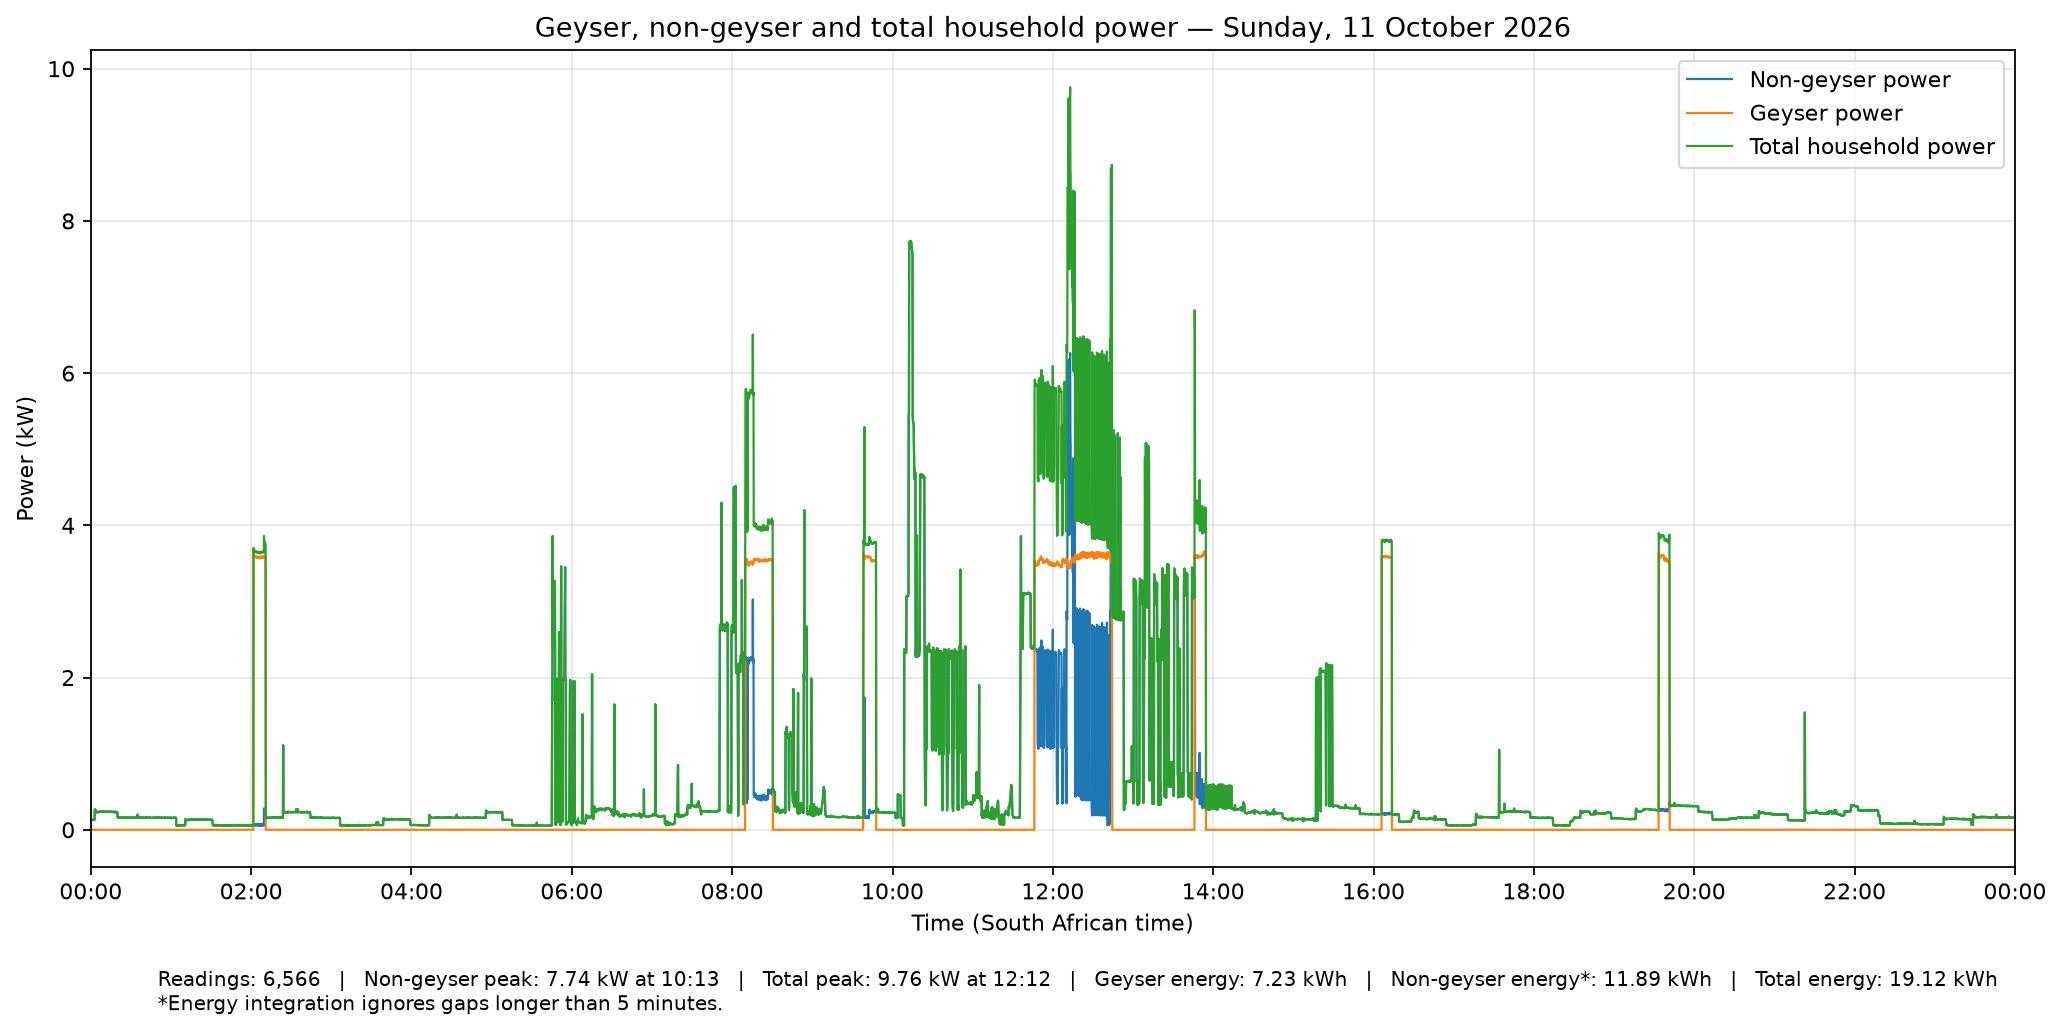
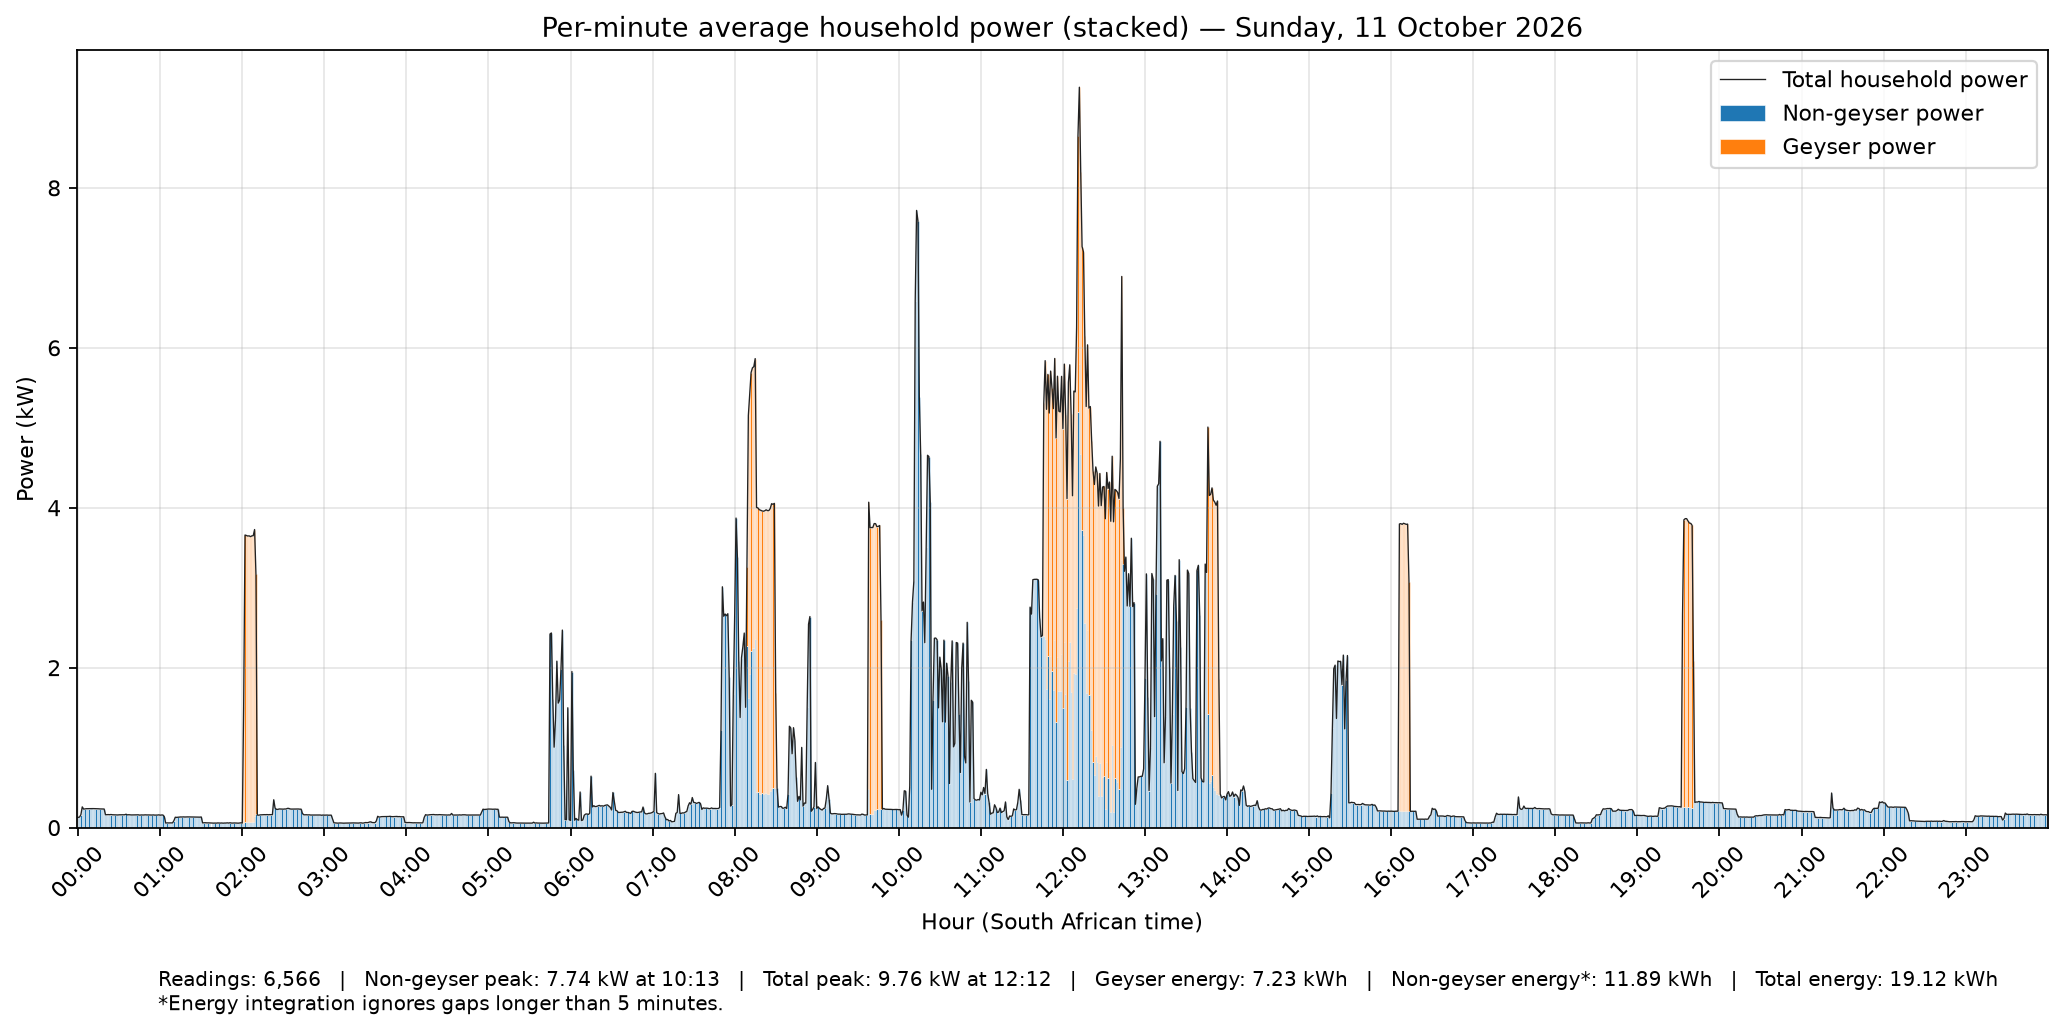
Fixup some report layout stuff

diff --git a/plot_non_geyser_power.py b/plot_non_geyser_power.py
@@ -180,38 +180,72 @@ def main():
     )
 
     fig, ax = plt.subplots(figsize=(13, 6.5))
-    if args.chart in ("non-geyser", "both"):
-        ax.plot(
-            times, [value / 1000.0 for value in non_geyser_w],
-            linewidth=1.0, label="Non-geyser power"
-        )
-    if args.chart in ("geyser", "both"):
-        ax.plot(
-            times, [value / 1000.0 for value in geyser_w],
-            linewidth=1.0, label="Geyser power"
-        )
-    if args.chart in ("total", "both"):
-        ax.plot(
-            times, [value / 1000.0 for value in total_w],
-            linewidth=1.0, label="Total household power"
-        )
+    if args.chart == "both":
+        # Average readings within each minute and stack the two components.
+        # Missing minutes are left blank so data gaps remain visible.
+        minutes = {minute: {"geyser": [], "non_geyser": []}
+                   for minute in range(24 * 60)}
+        for dt, geyser, non_geyser in zip(times, geyser_w, non_geyser_w):
+            minute = dt.hour * 60 + dt.minute
+            minutes[minute]["geyser"].append(geyser / 1000.0)
+            minutes[minute]["non_geyser"].append(non_geyser / 1000.0)
+        minute_indices = [
+            minute for minute in range(24 * 60)
+            if minutes[minute]["geyser"]
+        ]
+        geyser_avg = [
+            sum(minutes[minute]["geyser"]) / len(minutes[minute]["geyser"])
+            for minute in minute_indices
+        ]
+        non_geyser_avg = [
+            sum(minutes[minute]["non_geyser"]) / len(minutes[minute]["non_geyser"])
+            for minute in minute_indices
+        ]
+        ax.bar(minute_indices, non_geyser_avg, width=0.9,
+               edgecolor="white", linewidth=0.25,
+               label="Non-geyser power")
+        ax.bar(minute_indices, geyser_avg, width=0.9, bottom=non_geyser_avg,
+               edgecolor="white", linewidth=0.25,
+               label="Geyser power")
+        total_minute_avg = [
+            non_geyser + geyser
+            for non_geyser, geyser in zip(non_geyser_avg, geyser_avg)
+        ]
+        ax.plot(minute_indices, total_minute_avg, color="#222222", linewidth=0.6,
+                label="Total household power")
+        hour_ticks = list(range(0, 24 * 60, 60))
+        ax.set_xticks(hour_ticks, [f"{hour:02d}:00" for hour in range(24)],
+                      rotation=45)
+        ax.set_xlim(-1, 24 * 60)
+    else:
+        if args.chart == "non-geyser":
+            ax.plot(times, [value / 1000.0 for value in non_geyser_w],
+                    linewidth=1.0, label="Non-geyser power")
+        elif args.chart == "geyser":
+            ax.plot(times, [value / 1000.0 for value in geyser_w],
+                    linewidth=1.0, label="Geyser power")
+        elif args.chart == "total":
+            ax.plot(times, [value / 1000.0 for value in total_w],
+                    linewidth=1.0, label="Total household power")
     chart_titles = {
         "non-geyser": "Non-geyser household power",
         "geyser": "Geyser power",
         "total": "Total household power",
-        "both": "Geyser, non-geyser and total household power",
+        "both": "Per-minute average household power (stacked)",
     }
     ax.set_title(
         f"{chart_titles[args.chart]} — {selected_day.strftime('%A, %d %B %Y')}"
     )
-    ax.set_xlabel("Time (South African time)")
+    ax.set_xlabel("Hour (South African time)" if args.chart == "both"
+                  else "Time (South African time)")
     ax.set_ylabel("Power (kW)")
-    ax.set_xlim(
-        datetime.combine(selected_day, time.min, TZ),
-        datetime.combine(selected_day + timedelta(days=1), time.min, TZ),
-    )
-    ax.xaxis.set_major_locator(mdates.HourLocator(byhour=range(0, 24, 2), tz=TZ))
-    ax.xaxis.set_major_formatter(mdates.DateFormatter("%H:%M", tz=TZ))
+    if args.chart != "both":
+        ax.set_xlim(
+            datetime.combine(selected_day, time.min, TZ),
+            datetime.combine(selected_day + timedelta(days=1), time.min, TZ),
+        )
+        ax.xaxis.set_major_locator(mdates.HourLocator(byhour=range(0, 24, 2), tz=TZ))
+        ax.xaxis.set_major_formatter(mdates.DateFormatter("%H:%M", tz=TZ))
     ax.grid(True, alpha=0.3)
     ax.legend(loc="upper right")
 

diff --git a/run_daily_stacked_plot_email.py b/run_daily_stacked_plot_email.py
@@ -1,0 +1,98 @@
+#!/usr/bin/env python3
+"""Generate yesterday's stacked geyser/non-geyser chart and email it as an attachment."""
+from datetime import datetime, timedelta
+from email.message import EmailMessage
+from html import escape
+from pathlib import Path
+from zoneinfo import ZoneInfo
+import subprocess
+import sys
+import time
+
+from run_solar_report_email import notify_failure
+
+SCRIPT_DIR = Path(__file__).resolve().parent
+REPORT_DIR = SCRIPT_DIR / "solar report"
+TZ = ZoneInfo("Africa/Johannesburg")
+RECIPIENTS = ["mike@hewitson.co.za", "hewitson.is.me@gmail.com"]
+SENDER = "hewitson.is.me@gmail.com"
+
+
+def main() -> int:
+    run_day = datetime.now(TZ).date() - timedelta(days=1)
+    image = REPORT_DIR / f"geyser_non_geyser_and_total_power_{run_day.isoformat()}.png"
+    started_at = time.time()
+    run = subprocess.run(
+        [
+            str(SCRIPT_DIR / ".venv" / "bin" / "python"),
+            str(SCRIPT_DIR / "plot_non_geyser_power.py"),
+            "--chart", "both",
+            "--date", run_day.isoformat(),
+        ],
+        cwd=SCRIPT_DIR,
+        text=True,
+        stdout=subprocess.PIPE,
+        stderr=subprocess.STDOUT,
+    )
+    image_created = image.is_file() and image.stat().st_mtime >= started_at
+    success = run.returncode == 0 and image_created
+    now = datetime.now(TZ)
+
+    message = EmailMessage()
+    message["From"] = SENDER
+    message["To"] = RECIPIENTS[0]
+    message["Cc"] = RECIPIENTS[1]
+    result = "success" if success else "FAILED"
+    message["Subject"] = f"Solar stacked power plot — {run_day.isoformat()} ({result})"
+    body = [
+        f"Plot run: {now:%Y-%m-%d %H:%M:%S %Z}",
+        f"Reading date: {run_day.isoformat()}",
+        f"Result: {result}" if success else f"Result: FAILED (exit code {run.returncode})",
+        "",
+        "Plot output:",
+        "=" * 72,
+        run.stdout or "(No output)",
+    ]
+    if not image_created:
+        body.extend(["", f"Expected graph was not created: {image}"])
+    body_text = "\n".join(body)
+    message.set_content(body_text)
+    html_body = (
+        '<!doctype html><html><body style="margin:0;padding:16px;">'
+        '<pre style="margin:0;font-family:Menlo,Monaco,Consolas,'
+        '\'Liberation Mono\',\'Courier New\',monospace;'
+        'font-size:13px;line-height:1.35;white-space:pre;">'
+        f"{escape(body_text)}</pre></body></html>"
+    )
+    message.add_alternative(html_body, subtype="html")
+
+    if image_created:
+        message.add_attachment(
+            image.read_bytes(), maintype="image", subtype="png", filename=image.name
+        )
+
+    sent = subprocess.run(
+        ["/usr/bin/msmtp", "-a", "gmail", "-t"],
+        input=message.as_bytes(),
+        stdout=subprocess.PIPE,
+        stderr=subprocess.PIPE,
+    )
+    if sent.returncode:
+        detail = sent.stderr.decode(errors="replace") or "msmtp returned a failure status."
+        sys.stderr.write(detail)
+        notify_failure("Solar stacked plot email delivery failed.", detail)
+        return sent.returncode
+
+    print(f"Email sent to {', '.join(RECIPIENTS)}; stacked graph attached: {image_created}.")
+    if not success:
+        notify_failure(
+            f"Solar stacked plot failed for {run_day.isoformat()} (exit code {run.returncode}).",
+            run.stdout or f"Expected graph was not created: {image}",
+        )
+        return run.returncode or 1
+
+    return 0
+
+
+if __name__ == "__main__":
+    raise SystemExit(main())

diff --git a/run_solar_report_email.py b/run_solar_report_email.py
@@ -2,6 +2,7 @@
 """Run solar_report.py and email its output with the generated charts."""
 from datetime import datetime
 from email.message import EmailMessage
+from html import escape
 from pathlib import Path
 import subprocess
 import sys
@@ -92,7 +93,16 @@ def main() -> int:
     missing = [str(path) for path in IMAGES if not path.is_file()]
     if missing:
         body.extend(["", "Expected chart image(s) not found:", *missing])
-    message.set_content("\n".join(body))
+    body_text = "\n".join(body)
+    message.set_content(body_text)
+    html_body = (
+        '<!doctype html><html><body style="margin:0;padding:16px;">'
+        '<pre style="margin:0;font-family:Menlo,Monaco,Consolas,'
+        '\'Liberation Mono\',\'Courier New\',monospace;'
+        'font-size:13px;line-height:1.35;white-space:pre;">'
+        f"{escape(body_text)}</pre></body></html>"
+    )
+    message.add_alternative(html_body, subtype="html")
 
     for path in IMAGES:
         if path.is_file():

diff --git a/run_daily_non_geyser_plot_email.py b/run_daily_non_geyser_plot_email.py
@@ -2,6 +2,7 @@
 """Generate yesterday's non-geyser chart and email it as an attachment."""
 from datetime import datetime, timedelta
 from email.message import EmailMessage
+from html import escape
 from pathlib import Path
 from zoneinfo import ZoneInfo
 import subprocess
@@ -69,7 +70,16 @@ def main() -> int:
     ]
     if not image_created:
         body.extend(["", f"Expected graph was not created: {image}"])
-    message.set_content("\n".join(body))
+    body_text = "\n".join(body)
+    message.set_content(body_text)
+    html_body = (
+        '<!doctype html><html><body style="margin:0;padding:16px;">'
+        '<pre style="margin:0;font-family:Menlo,Monaco,Consolas,'
+        '\'Liberation Mono\',\'Courier New\',monospace;'
+        'font-size:13px;line-height:1.35;white-space:pre;">'
+        f"{escape(body_text)}</pre></body></html>"
+    )
+    message.add_alternative(html_body, subtype="html")
 
     if image_created:
         message.add_attachment(
